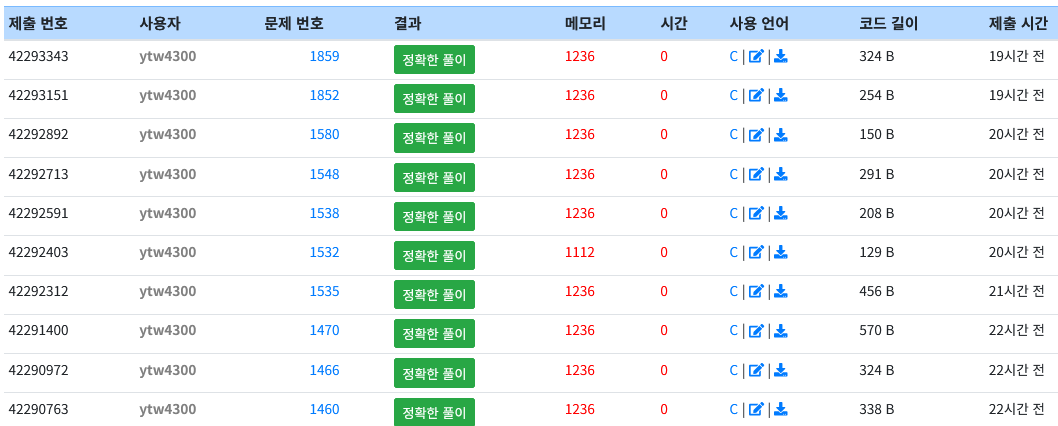
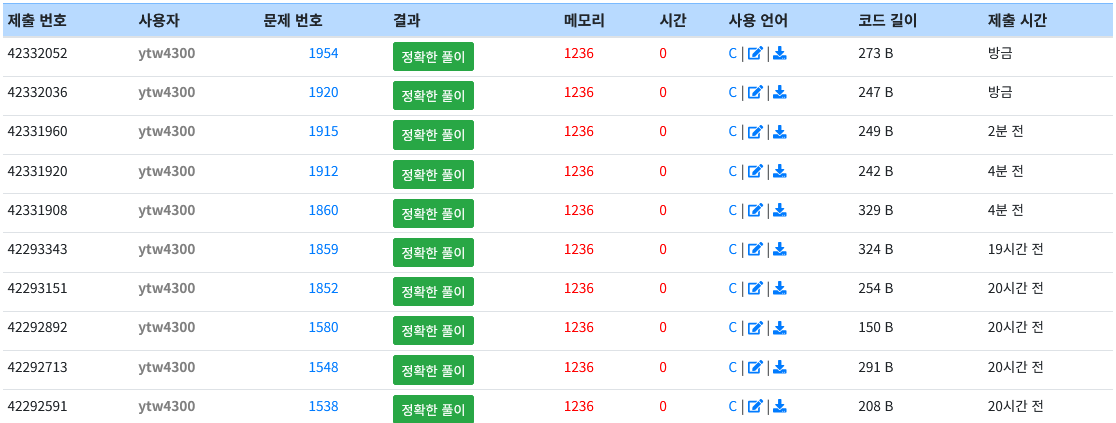
edit post

diff --git a/content/post/layer7-3/index.md b/content/post/layer7-3/index.md
@@ -333,7 +333,9 @@ int main() {
 함수 : 1532, 1535*, 1538, 1548, 1580
 재귀함수 : 1852, 1859*, 1860, 1912, 1915, 1920*, 1954
 
-![](image.png)
+![alt text](image.png)
+
+![alt text](image-3.png)
 
 ---
 
@@ -837,7 +839,7 @@ void star(int n) {
     }
   
     star(n-1);
-    printf("%d", n);
+    printf("*");
 }
 
 void f(int n) {
@@ -877,15 +879,13 @@ int main() {
 ```c
 #include <stdio.h>
 
-int sum = 1;
-
-void num(int n) {
+void star(int n) {
     if(n <= 0) {
         return;
     }
-    
-    num(n-1);
-    sum *= n;
+  
+    star(n-1);
+    printf("%d ", n);
 }
 
 void f(int n) {
@@ -894,7 +894,8 @@ void f(int n) {
     }
 
     f(n-1);
-    num(n);
+    star(n);
+    printf("\n");
 }
 
 int main() {
@@ -902,8 +903,8 @@ int main() {
     int n;
 
     scanf("%d", &n);
-    f(n)
-;
+    f(n);
+
     return 0;
 }
 ```
@@ -968,13 +969,12 @@ int main() {
 ```c
 #include <stdio.h>
 
-
 int f(int n) {
     if (n == 1 || n == 2) {
         return 1;
     }
     else {
-        return fi(n - 1) + fi(n - 2);
+        return f(n - 1) + f(n - 2);
     }
 }
 
@@ -983,7 +983,7 @@ int main() {
 
     scanf("%d", &n);
 
-    printf("%d", fi(n));
+    printf("%d", f(n));
 
     return 0;
 }
@@ -1002,7 +1002,7 @@ int main() {
 #include <stdio.h>
 
 int f(int n) {
-    if (!(n / 2)) {
+    if (n / 2 != 0) {
         f(n / 2);
         printf("%d", n % 2);
     } else {
